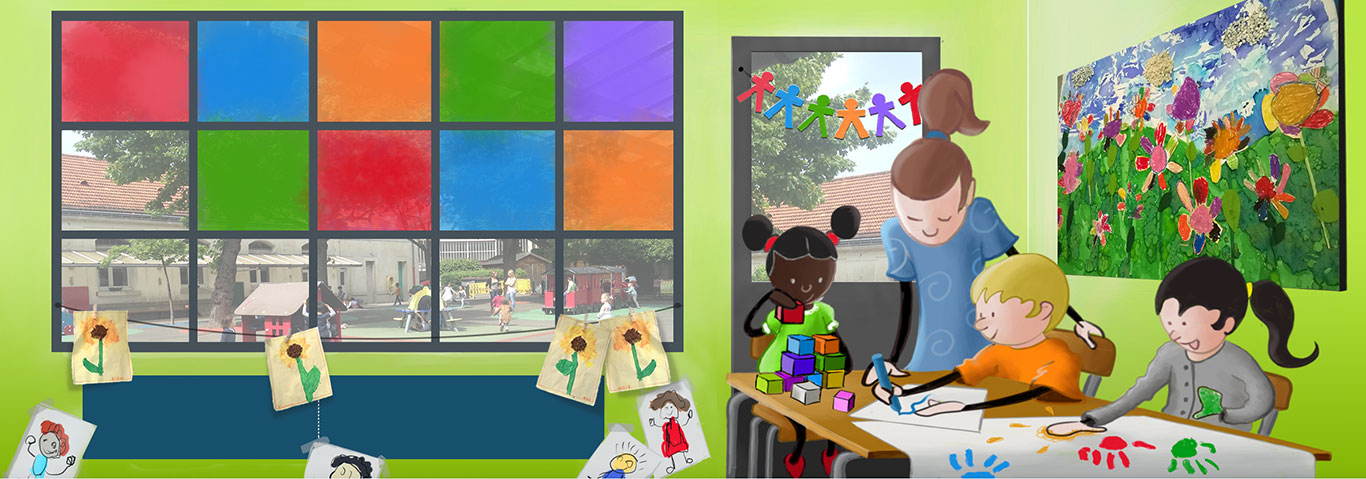
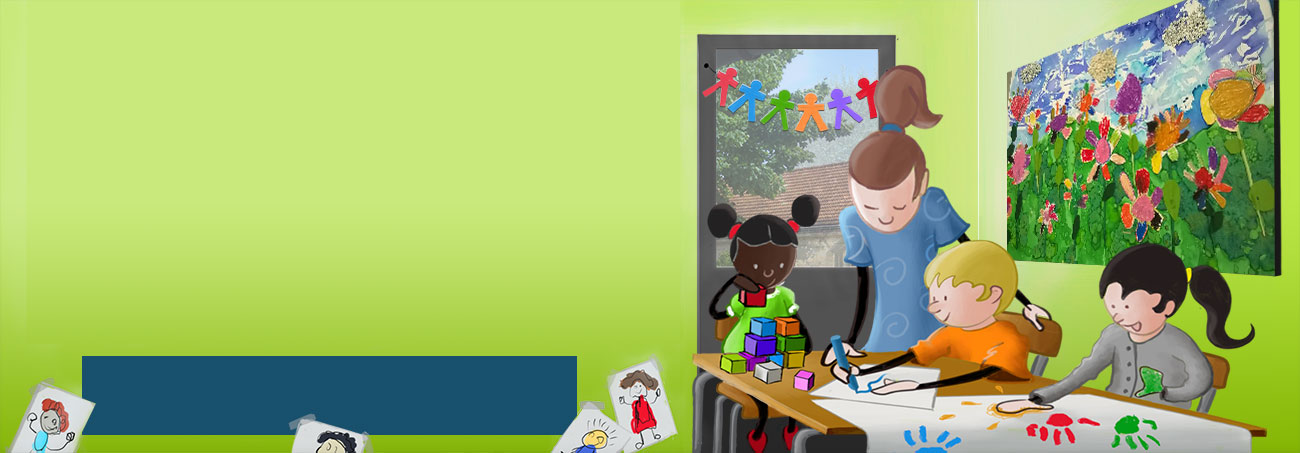
add first images and first styles

diff --git a/src/css/style.scss b/src/css/style.scss
@@ -7,67 +7,9 @@ Author: Stéphane Marcadet
 Template: period
 */
 
-// Ajouter vos style SCSS ici
-// --------------------------
-
-/// Générez un guide des styles
- //
- // Si vous commentez votre code en utilisant la syntaxe
- // [KSS](https://github.com/kss-node/kss/blob/spec/SPEC.md),
- // le Starter Kit generera un guide des styles dans la
- // documentation a chaque build du projet.
- //
- // Styleguide Introduction
-
-
-/// Une palette de couleur
- //
- // Si vous voulez documenter des couleurs, vous pouvez
- // le faire de cette manière grace au block Colors.
- //
- // Colors:
- // denim          : #1e5bc6
- // flamingo       : #f15145
- // alert          : #f33121 - red for error
- // $color-black   : #000    - real black
- //
- // Styleguide Introduction.Couleur
-
-/// Font d’icon Fontello
- //
- // De la même façon que pour les fonts grace au block
- // Icons vous pouvez documenter les icons de la font.
- //
- // Implique que la font d'icon se nomme fontello
- // Sinon il faut changer celle-ci dans doc.scss
- //
- // Icons:
- // left    : ←
- // up      : ↑
- // right   : →
- // down    : ↓
- // comment : 💬 - bulle
- //
- // Styleguide Introduction.Icons
-
-
-/// Exemple UI
- //
- // Markup: ../html/partials/_exemple.twig
- //
- // Styleguide Introduction.UI
-
-/// SVG
- //
- // Markup:
- // <svg style="height:120px;width:120px;fill:#000">
- //   <use xlink:href="#symbol-fish"/>
- // </svg>
- //
- // Styleguide Introduction.Svg
-
 $primary: #FF6138;
-$secondary: #00A388;
+$secondary: #85b40b;
+$light_blue: #e1f6ff;
 $white: #fff;
 
 .site-title {
@@ -78,7 +20,7 @@ $white: #fff;
 .site-header {
   position: relative;
   background-color: transparent;
-  background: url('src/assets/img/header.jpg') no-repeat top left;
+  padding: 0;
 
   &:before {
     content: '';
@@ -91,6 +33,70 @@ $white: #fff;
     bottom: 0;
     z-index: -1;
   }
+}
+
+.title-container {
+  width: 100%;
+  margin-bottom: 0;
+}
+
+.mg-header-logo {
+  background: url('src/assets/img/header.jpg') no-repeat top left;
+  min-height: 447px;
+}
+
+.mg-header-logo-img {
+  margin-left: 52px;
+  margin-top: 10px;
+}
+
+.mg-header-infos {
+  position: absolute;
+  bottom: 23px;
+  left: 110px;
+  font-size: 20px;
+  line-height: 1.3;
+  max-width: 450px;
+
+  a {
+    color: $white;
+  }
+}
+
+.mg-header-infos-address {
+  float: left;
+  width: 50%;
+  margin: 0;
+
+  span {
+    display: block;
+    margin-bottom: 5px;
+  }
+
+  strong {
+    font-style: italic;
+  }
+}
+
+.mg-header-infos-number {
+  font-weight: bold;
+  font-size: 1.2em;
+}
+
+.mg-header-infos-mail {
+  font-size: .85em;
+  text-decoration: underline;
+  font-style: italic;
+}
+
+.menu-primary-container {
+  margin-bottom: 0;
+}
+
+.menu-primary {
+  background-color: $light_blue;
+  position: relative;
+  z-index: 10;
 }
 
 .home .post {

diff --git a/style.css b/style.css
@@ -13,11 +13,11 @@ Template: period
 .site-header {
   position: relative;
   background-color: transparent;
-  background: url("src/assets/img/header.jpg") no-repeat top left;
+  padding: 0;
 }
 .site-header:before {
   content: '';
-  background-color: #00A388;
+  background-color: #85b40b;
   opacity: .9;
   position: absolute;
   left: 0;
@@ -25,6 +25,67 @@ Template: period
   top: 0;
   bottom: 0;
   z-index: -1;
+}
+
+.title-container {
+  width: 100%;
+  margin-bottom: 0;
+}
+
+.mg-header-logo {
+  background: url("src/assets/img/header.jpg") no-repeat top left;
+  min-height: 447px;
+}
+
+.mg-header-logo-img {
+  margin-left: 52px;
+  margin-top: 10px;
+}
+
+.mg-header-infos {
+  position: absolute;
+  bottom: 23px;
+  left: 110px;
+  font-size: 20px;
+  line-height: 1.3;
+  max-width: 450px;
+}
+.mg-header-infos a {
+  color: #fff;
+}
+
+.mg-header-infos-address {
+  float: left;
+  width: 50%;
+  margin: 0;
+}
+.mg-header-infos-address span {
+  display: block;
+  margin-bottom: 5px;
+}
+.mg-header-infos-address strong {
+  font-style: italic;
+}
+
+.mg-header-infos-number {
+  font-weight: bold;
+  font-size: 1.2em;
+}
+
+.mg-header-infos-mail {
+  font-size: .85em;
+  text-decoration: underline;
+  font-style: italic;
+}
+
+.menu-primary-container {
+  margin-bottom: 0;
+}
+
+.menu-primary {
+  background-color: #e1f6ff;
+  position: relative;
+  z-index: 10;
 }
 
 .home .post {

diff --git a/header.php b/header.php
@@ -14,25 +14,29 @@
 	<header class="site-header" id="site-header" role="banner">
 		<div class="max-width">
 			<div id="title-container" class="title-container">
-				<?php get_template_part( 'logo' ) ?>
-				<!-- <?php if ( get_bloginfo( 'description' ) ) {
-					echo '<p class="tagline">' . esc_html( get_bloginfo( 'description' ) ) . '</p>';
-				} ?> -->
-				<p>16, bvd Gallieni, Nogent sur Marne</p>
-				<a href="tel:0148733679">01 48 73 19 68</a>
-				<a href="mailto:direction@maternellegallieni.fr">direction@maternellegallieni.fr</a>
+				<h1 class="mg-header-logo">
+					<img src="<?php bloginfo('stylesheet_directory'); ?>/src/assets/img/logo.png" alt="Maternelle Gallieni - Nogent sur Marne" class="mg-header-logo-img">
+				</h1>
+				<div class="mg-header-infos">
+					<p class="mg-header-infos-address">
+						<span>16 bvd Gallieni,</span>
+						<strong>Nogent-sur-Marne</strong>
+					</p>
+					<a class="mg-header-infos-number" href="tel:0148733679">01 48 73 19 68</a>
+					<a class="mg-header-infos-mail" href="mailto:direction@maternellegallieni.fr">direction@maternellegallieni.fr</a>
+				</div>
 			</div>
 			<button id="toggle-navigation" class="toggle-navigation" name="toggle-navigation" aria-expanded="false">
 				<span class="screen-reader-text"><?php _e( 'open menu', 'period' ); ?></span>
 				<?php echo ct_period_svg_output( 'toggle-navigation' ); ?>
 			</button>
-			<div id="menu-primary-container" class="menu-primary-container">
-				<div class="icon-container">
-					<?php ct_period_social_icons_output(); ?>
-					<?php get_template_part( 'content/search-bar' ); ?>
-				</div>
-				<?php get_template_part( 'menu', 'primary' ); ?>
+		</div>
+		<div id="menu-primary-container" class="menu-primary-container">
+			<div class="icon-container">
+				<?php ct_period_social_icons_output(); ?>
+				<?php get_template_part( 'content/search-bar' ); ?>
 			</div>
+			<?php get_template_part( 'menu', 'primary' ); ?>
 		</div>
 	</header>
 	<?php do_action( 'after_header' ); ?>

diff --git a/menu-primary.php b/menu-primary.php
@@ -1,12 +1,14 @@
 <div id="menu-primary" class="menu-container menu-primary" role="navigation">
-    <?php wp_nav_menu(
-        array(
-            'theme_location'  => 'primary',
-            'container'       => 'nav',
-            'container_class' => 'menu',
-            'menu_class'      => 'menu-primary-items',
-            'menu_id'         => 'menu-primary-items',
-            'items_wrap'      => '<ul id="%1$s" class="%2$s">%3$s</ul>',
-            'fallback_cb'     => 'ct_period_wp_page_menu'
-        ) ); ?>
+	<div class="max-width">
+		<?php wp_nav_menu(
+			array(
+					'theme_location'  => 'primary',
+					'container'       => 'nav',
+					'container_class' => 'menu',
+					'menu_class'      => 'menu-primary-items',
+					'menu_id'         => 'menu-primary-items',
+					'items_wrap'      => '<ul id="%1$s" class="%2$s">%3$s</ul>',
+					'fallback_cb'     => 'ct_period_wp_page_menu'
+			) ); ?>
+	</div>
 </div>
